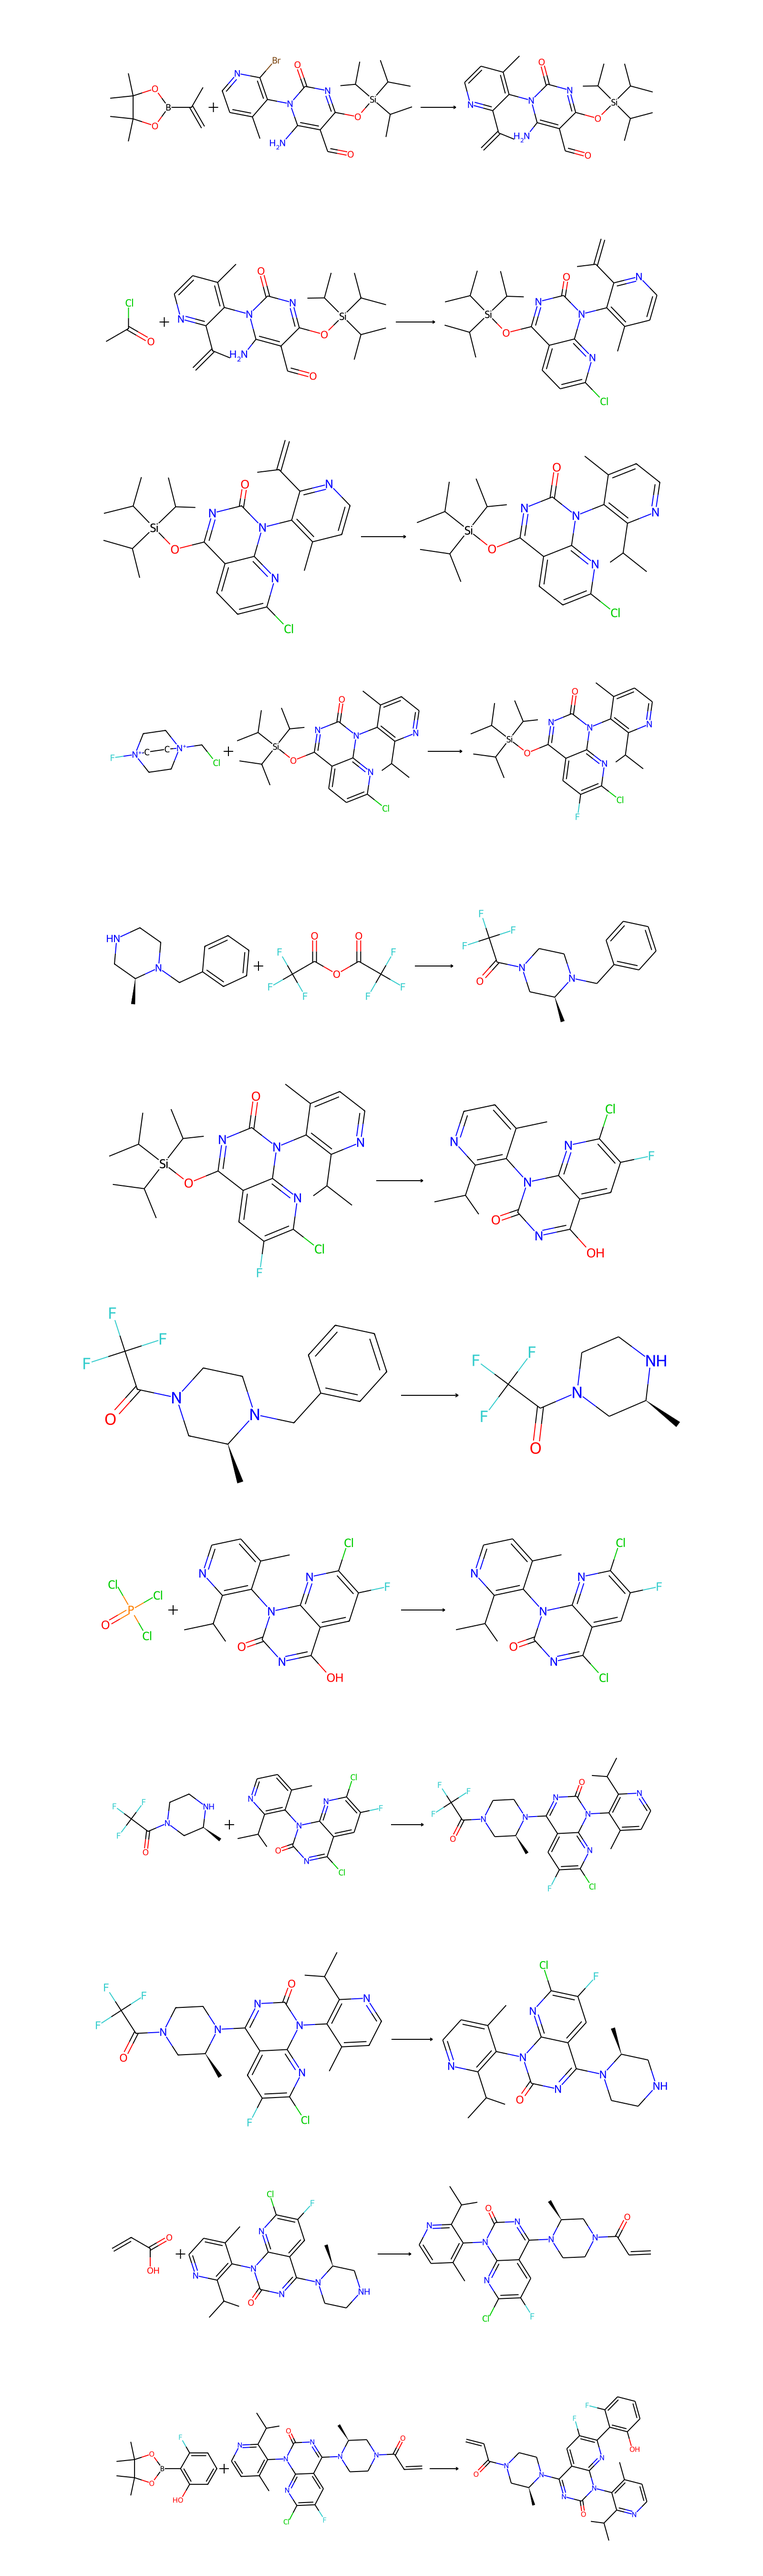
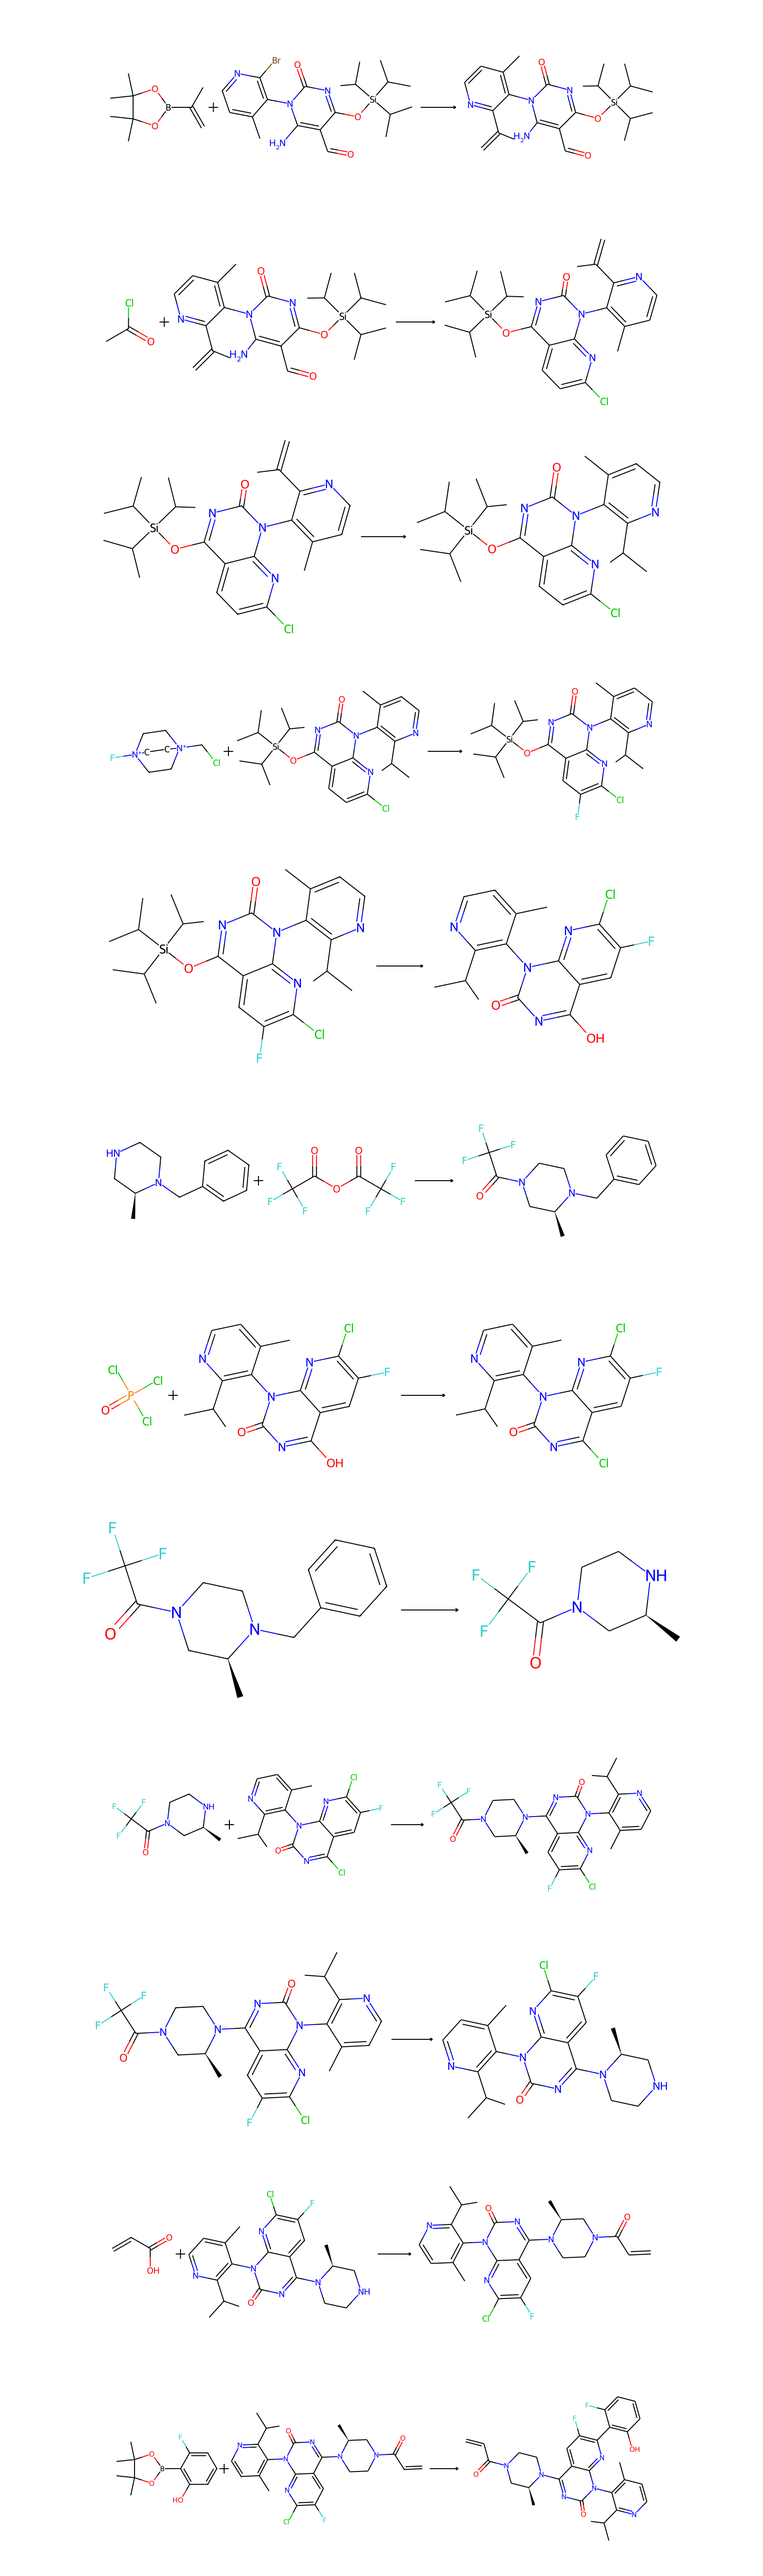
번호 규칙 변경, 한계점 1 수정
변경 1 — 단계 번호 규칙
extract_steps.py의 정렬 키에 타이브레이크를 추가했다. 깊이 내림차순은 그대로 두고,
같은 깊이의 독립 가지는 서브트리가 깊은 쪽(주 사슬)을 먼저 쓴다.
route 1이 주 사슬 1–7(포밀화 ~ POCl₃) · 분기 8(아크릴로일 클로라이드 + 메틸피페라진,
p=0.975) · 결합 9–10(SNAr, Suzuki)이 되어 주 사슬이 끊기지 않는다.
이전에는 분기가 7이어서 주 사슬이 1–6과 8로 갈라졌다.

route 6은 피페라진 분기가 2단계(6 TFA 보호, 8 탈벤질)라 주 사슬과 같은 깊이에 걸친다.
깊이 내림차순을 지키는 한 분기가 주 사슬 사이에 끼는 것을 피할 수 없다
(주 사슬 1–5, 7 / 분기 6, 8 / 결합 9–12). results/README.md에 적어 두었다.

route 1·6의 json·md와 영향받는 이미지(route_1 step_07·08, route_6 step_05~08,
양쪽 route_overview)를 다시 생성했다.

변경 2 — 한계점 1 수정 (HANDOFF.md 6장·7장)
"염소의 출처를 설명하지 못함"은 틀린 서술이었다. route 1의 3단계는 물 2분자가 빠지는
이중 축합으로 원자 수지가 맞고(C·Cl·N·Si 일치, H −4, O −2), 염소의 출처는
아세틸 클로라이드다.
진짜 오류는 아실 클로라이드의 염소가 이탈기라는 점이다. 이 템플릿은 C–Cl 결합을 유지한 채
염소를 새 방향족 고리의 치환기로 남기고 아세틸의 메틸 탄소를 고리 탄소로 바꾼다.
실제로 일어나지 않는 변환이고, 문헌 공정에서는 그 염소가 출발물질
(2,6-다이클로로-5-플루오로니코틴산)에 처음부터 달려 있다.

일반화 논점을 한계점 1 아래에 넣었다 — 템플릿 기반 역합성은 원자 수지가 맞는 단계를
만들어내지만 메커니즘적 타당성을 보장하지 않는다. 164단계 분류가 전부
0.0 Unrecognized인 것과 같은 뿌리다. 한계점 6(점수가 화학적 타당성을 재지 않는다)과
짝을 이룬다.

SKILL.md 7.1절에 검증 규칙 추가
이탈기가 생성물에 치환기로 남아 있는 단계는 틀린 단계로 본다. 다음 분자에도 적용된다.

HANDOFF.md 12장
완료된 "첫 작업 3개"를 산출물 표로 바꾸고, 2주차 시작점(Parrot, 입력은
results/steps/route_*.json)과 비교 기준이 되는 실제 공정 조건을 적었다.

diff --git a/scripts/extract_steps.py b/scripts/extract_steps.py
@@ -17,6 +17,11 @@
 단계 번호
     역합성 트리에서 깊은 reaction 노드가 먼저 일어나는 반응이다.
     깊이 내림차순으로 정렬하면 정반응 순서가 된다 (위상 정렬).
+
+    같은 깊이에 여러 반응이 있으면 (= 서로 독립인 가지) 서브트리가 깊은 쪽을 먼저 쓴다.
+    긴 쪽이 주 사슬이고 짧은 쪽이 분기이므로, 주 사슬이 연속 번호로 이어지고
+    분기가 그 뒤에 와서 보고서에서 읽기 좋다. 독립인 가지의 순서는 어느 쪽이든
+    위상 정렬상 유효하고 화학적으로도 같다.
 """
 
 import argparse
@@ -33,16 +38,27 @@ for _stream in (sys.stdout, sys.stderr):
 
 
 def collect_reactions(route):
-    """경로 트리에서 (깊이, 생성물 SMILES, reaction 노드)를 DFS 순서로 모은다."""
+    """경로 트리에서 reaction 노드를 DFS 순서로 모은다.
+
+    각 항목: [깊이, 그 반응 아래 서브트리의 최대 깊이, DFS 순번, 생성물 SMILES, reaction 노드]
+    서브트리 최대 깊이는 같은 깊이의 가지 중 어느 쪽이 주 사슬인지 가리는 데 쓴다.
+    """
     found = []
 
     def walk(mol_node, depth):
+        """이 mol 노드 아래에 있는 반응 중 가장 깊은 것의 깊이를 돌려준다."""
+        deepest = depth - 1  # 잎이면 (반응이 없으면) 자기보다 얕은 값
         for rxn in mol_node.get("children") or []:
             if rxn.get("type") != "reaction":
                 continue
-            found.append((depth, mol_node["smiles"], rxn))
+            idx = len(found)
+            found.append([depth, depth, idx, mol_node["smiles"], rxn])
+            subtree_deepest = depth
             for child_mol in rxn.get("children") or []:
-                walk(child_mol, depth + 1)
+                subtree_deepest = max(subtree_deepest, walk(child_mol, depth + 1))
+            found[idx][1] = subtree_deepest
+            deepest = max(deepest, subtree_deepest)
+        return deepest
 
     walk(route, 0)
     return found
@@ -51,11 +67,12 @@ def collect_reactions(route):
 def build_steps(route):
     """정반응 순서의 단계 리스트를 만든다."""
     found = collect_reactions(route)
-    # 깊이 내림차순 (깊은 반응이 먼저). 같은 깊이는 DFS 순서 유지 (stable sort).
-    found.sort(key=lambda t: -t[0])
+    # 깊이 내림차순 (깊은 반응이 먼저) → 같은 깊이면 서브트리가 깊은 쪽(주 사슬) 먼저
+    # → 그래도 같으면 DFS 순서.
+    found.sort(key=lambda t: (-t[0], -t[1], t[2]))
 
     steps = []
-    for i, (depth, product, rxn) in enumerate(found, start=1):
+    for i, (depth, _subtree_deepest, _idx, product, rxn) in enumerate(found, start=1):
         reactants = [c["smiles"] for c in (rxn.get("children") or [])]
         meta = rxn.get("metadata") or {}
         steps.append(

diff --git a/HANDOFF.md b/HANDOFF.md
@@ -429,7 +429,16 @@ Cc1ccnc(Br)c1-n1c(N)cc(O[Si](C(C)C)(C(C)C)C(C)C)nc1=O
 | 결합 방식 | 아미노·알데하이드에서 고리화 | 우레아 형성 후 염기 매개 고리화 |
 | 확률 | p=0.036 (낮음) | — |
 
-"생성물 고리의 Cl이 어디서 왔는지 설명되지 않는다"고 지적했던 부분의 답이 나왔다. **실제로는 그 Cl이 출발물질(2,6-다이클로로-5-플루오로니코틴산)에 처음부터 달려 있다.** 모델은 그 사실을 모르고 아세틸 클로라이드에서 Cl이 오는 것처럼 템플릿을 적용했다.
+전에 "생성물 고리의 Cl이 어디서 왔는지 설명되지 않는다"고 적었는데, **이 서술은 틀렸다.** route 1의 3단계 원자 수지를 계산해 보면 이렇다.
+
+```
+CC(=O)Cl + C23H34N4O3Si  →  C25H33ClN4O2Si + 2 H2O
+C25H37ClN4O4Si           →  C25H33ClN4O2Si + 2 H2O
+```
+
+C·Cl·N·Si가 모두 맞고 H −4, O −2다. 물 2분자가 빠지는 이중 축합으로 **형식상 균형이 잡혀 있다.** 아세틸 클로라이드의 탄소 2개와 염소가 전부 생성물에 들어간다. 염소의 출처는 아세틸 클로라이드이고, 설명되지 않는 것이 아니다.
+
+진짜 오류는 다른 데 있다. **아실 클로라이드 화학에서 염소는 이탈기다.** 이 템플릿은 C–Cl 결합을 유지한 채 염소를 새로 만든 방향족 고리의 치환기로 남기고, 아세틸의 메틸 탄소를 고리 탄소로 바꾼다. 실제로 일어나지 않는 변환이다. 문헌 공정에서는 그 염소가 출발물질(2,6-다이클로로-5-플루오로니코틴산)에 처음부터 달려 있다.
 
 **2. 플루오린 도입 방식**: AI는 Selectfluor로 후반에 친전자성 불소화. 실제는 출발물질에 이미 F가 있다. **불소화된 빌딩블록을 사는 것이 정답이었다.**
 
@@ -478,7 +487,12 @@ OCc1ccccc1 + [카바모일 클로라이드 중간체] → Cbz 보호체       (p
 
 ## 7. 보고서 '한계점' 절에 넣을 항목 (최종 정리)
 
-1. 고리 형성 단계에서 염소의 출처를 설명하지 못함. 상업용 빌딩블록에 이미 있는 치환기를 반응으로 만들려 함 (v4 15개 경로 공통)
+1. 아실 클로라이드 화학에서 염소는 이탈기다. 이 템플릿은 C–Cl 결합을 유지한 채 염소를 새로 만든 방향족 고리의 치환기로 남기고, 아세틸의 메틸 탄소를 고리 탄소로 바꾼다. 실제로 일어나지 않는 변환이다. 문헌 공정에서는 그 염소가 출발물질(2,6-다이클로로-5-플루오로니코틴산)에 처음부터 달려 있다. (v4 15개 경로 공통)
+
+   > **일반화 — 한계점 절의 핵심 논점.** 템플릿 기반 역합성은 원자 수지가 맞는 단계를 만들어내지만, 그것이 메커니즘적 타당성을 보장하지 않는다. 이 단계도 물 2분자가 빠지는 이중 축합으로 형식상 균형은 잡혀 있다. 164개 단계의 반응 분류가 전부 `0.0 Unrecognized`로 나온 것과 같은 뿌리다 — 모델은 원자를 맞추고 있고 메커니즘을 보고 있지 않다.
+   >
+   > 이 논점은 아래 6번("점수가 화학적 타당성을 재지 않는다")과 짝을 이룬다. 둘을 나란히 쓰면 보고서 한계점 절의 골격이 된다.
+
 2. 전자 부족 방향족 고리에 친전자성 불소화를 제안 (실제로는 불필요한 반응)
 3. 축 비대칭(atropisomerism)을 인식하지 못해 분할 단계가 없음 — 실제 공정의 최저 수율 단계(37%)
 4. 보호기 제거와 아실화를 한 단계로 합침 (v4 route 9, 15). 같은 변환을 route 5·6·7·12·13에서는 올바르게 두 단계로 제시 — **일관성 없음**
@@ -608,33 +622,38 @@ OCc1ccccc1 + [카바모일 클로라이드 중간체] → Cbz 보호체       (p
 
 **이 파일은 repo 루트에 둔다.** CLI 세션 시작할 때 읽히면 지금까지의 맥락이 전부 전달된다. 특히 중요한 것은 8장(보고서 금지·주의 사항)과 7장(한계점 목록)이다. 이 둘이 보고서 품질을 좌우한다.
 
-### 첫 작업 3개 (순서대로)
+### 첫 작업 3개 — 완료 (commit c06e8d2, 번호 규칙·한계점 수정은 후속 커밋)
 
-**(1) 결과 json을 repo에 올린다 — 재현성 20점 항목**
+결과 json 4개 repo 업로드, route 1·6 단계 추출, RDKit 이미지 생성이 모두 끝났다. 산출물은 아래와 같다.
 
-repo에 현재 `README.md`, `SKILL.md`, `.gitignore`밖에 없다. 교수님이 repo만 보고 실행을 재현해야 하므로 결과물이 있어야 한다.
+| 산출물 | 위치 |
+| --- | --- |
+| 결과 json 4개 | `results/sotorasib_trees*.json` |
+| 재현 문서 (환경·명령어·4회 비교) | `results/README.md` |
+| 단계별 반응 SMILES | `results/steps/route_1.json`, `route_6.json` (+ `.md` 표) |
+| 반응식·구조식 이미지 | `results/images/route_<n>/` |
+| 추출 스크립트 | `scripts/extract_steps.py` |
+| 작도 스크립트 | `scripts/draw_route.py` |
 
-```
-cd C:\Users\happi\github\2026_organic-synthesis
-mkdir results
-copy C:\Users\happi\github\aizynth-sotorasib\sotorasib_trees*.json results\
-```
-`.gitignore`가 `*.json`을 막고 있지 않은지 먼저 확인할 것. 막고 있으면 `!results/*.json` 예외를 추가한다.
-커밋 메시지에 4회 실행의 설정 차이(4장 표)를 요약해 넣으면 재현성 설명이 된다.
+### 다음 작업 — 2주차 (11/8 일정), Parrot부터
 
-**(2) route 1·6의 단계별 반응 SMILES 추출**
+**입력은 `results/steps/route_1.json`과 `results/steps/route_6.json`의 `reaction_smiles` 필드다.**
+route 1은 10단계(점수 최고 0.8448), route 6은 12단계(Bn + TFA 보호기를 모두 명시한 화학적으로 가장 정합적인 경로).
 
-`sotorasib_trees_v4.json`에서 뽑는다. 이것이 11/9 이후 조건·수율 모델의 입력이다.
-- route 1 = 점수 최고 (0.8448, 10단계)
-- route 6 = 화학적으로 가장 정합적 (Bn + TFA 보호, 12단계)
+1. **Parrot 설치 → 단계별 반응 조건(용매·시약·촉매·온도) 예측.** 명령어와 출력 형식을 SKILL.md에 기록
+2. **ASKCOS context recommender 시도** — 하루 안에 안 되면 실패 원인만 기록하고 넘어간다. 실패 사례도 '한계점' 재료다
+3. **rxn_yields 설치 → 단계별 수율 예측**
+4. **DRFP 기반 수율 예측** (rxn_yields와 비교용)
+5. **전체를 `run_pipeline.py` 하나로 연결**하고 결과를 json 하나로 모으기
 
-json 구조: 중첩된 `children` 트리. 각 reaction 노드에 `metadata.policy_name`, `metadata.policy_probability`, `metadata.classification`이 있다. mol 노드와 reaction 노드가 번갈아 나온다. 반응 SMILES는 `반응물1.반응물2>>생성물` 형식으로 조립한다.
+**조건 예측 결과를 검토할 때 SKILL.md 7절을 반드시 적용한다.** 특히 예측 온도가 용매 끓는점보다 높으면 그 조건은 쓸 수 없다 — 열린 플라스크는 용매 끓는점보다 뜨거워지지 않는다.
 
-**(3) RDKit으로 경로 구조 이미지 생성 — 가독성 30점**
+**ground truth는 6장의 실제 공정 조건 표다.** 예측값을 이 숫자와 비교하면 된다.
 
-route 1과 route 6의 단계별 구조식. 원래 11/15 일정이었다.
-
-그다음부터는 2주차(11/8~) 항목, 10장 참조.
+| 단계 | 실제 조건 | 실제 수율 |
+| --- | --- | --- |
+| Suzuki 커플링 | Pd(dpe)PhosCl₂ 0.3 mol%, KOAc 2.0 equiv, 2-MeTHF–H₂O 9:1, 78 °C, 4 h | 80% |
+| 염소화 + 피페라진 SNAr (원포트) | POCl₃ + DIPEA 톨루엔, 이어 i-PrOAc–DCM 20 °C | 66% |
 
 ### 환경 재현 명령
 ```

diff --git a/results/steps/route_6.md b/results/steps/route_6.md
@@ -16,10 +16,10 @@
 | 2 | ringbreaker | 0.036 | 0.0 Unrecognized | `CC(=O)Cl.C=C(C)c1nccc(C)c1-n1c(N)c(C=O)c(O[Si](C(C)C)(C(C)C)C(C)C)nc1=O>>C=C(C)c1nccc(C)c1-n1c(=O)nc(O[Si](C(C)C)(C(C)C)C(C)C)c2ccc(Cl)nc21` |
 | 3 | uspto | 0.008 | 0.0 Unrecognized | `C=C(C)c1nccc(C)c1-n1c(=O)nc(O[Si](C(C)C)(C(C)C)C(C)C)c2ccc(Cl)nc21>>Cc1ccnc(C(C)C)c1-n1c(=O)nc(O[Si](C(C)C)(C(C)C)C(C)C)c2ccc(Cl)nc21` |
 | 4 | uspto | 0.012 | 0.0 Unrecognized | `F[N+]12CC[N+](CCl)(CC1)CC2.Cc1ccnc(C(C)C)c1-n1c(=O)nc(O[Si](C(C)C)(C(C)C)C(C)C)c2ccc(Cl)nc21>>Cc1ccnc(C(C)C)c1-n1c(=O)nc(O[Si](C(C)C)(C(C)C)C(C)C)c2cc(F)c(Cl)nc21` |
-| 5 | uspto | 0.669 | 0.0 Unrecognized | `C[C@H]1CNCCN1Cc1ccccc1.O=C(OC(=O)C(F)(F)F)C(F)(F)F>>C[C@H]1CN(C(=O)C(F)(F)F)CCN1Cc1ccccc1` |
-| 6 | uspto | 0.010 | 0.0 Unrecognized | `Cc1ccnc(C(C)C)c1-n1c(=O)nc(O[Si](C(C)C)(C(C)C)C(C)C)c2cc(F)c(Cl)nc21>>Cc1ccnc(C(C)C)c1-n1c(=O)nc(O)c2cc(F)c(Cl)nc21` |
-| 7 | uspto | 0.175 | 0.0 Unrecognized | `C[C@H]1CN(C(=O)C(F)(F)F)CCN1Cc1ccccc1>>C[C@H]1CN(C(=O)C(F)(F)F)CCN1` |
-| 8 | uspto | 0.132 | 0.0 Unrecognized | `O=P(Cl)(Cl)Cl.Cc1ccnc(C(C)C)c1-n1c(=O)nc(O)c2cc(F)c(Cl)nc21>>Cc1ccnc(C(C)C)c1-n1c(=O)nc(Cl)c2cc(F)c(Cl)nc21` |
+| 5 | uspto | 0.010 | 0.0 Unrecognized | `Cc1ccnc(C(C)C)c1-n1c(=O)nc(O[Si](C(C)C)(C(C)C)C(C)C)c2cc(F)c(Cl)nc21>>Cc1ccnc(C(C)C)c1-n1c(=O)nc(O)c2cc(F)c(Cl)nc21` |
+| 6 | uspto | 0.669 | 0.0 Unrecognized | `C[C@H]1CNCCN1Cc1ccccc1.O=C(OC(=O)C(F)(F)F)C(F)(F)F>>C[C@H]1CN(C(=O)C(F)(F)F)CCN1Cc1ccccc1` |
+| 7 | uspto | 0.132 | 0.0 Unrecognized | `O=P(Cl)(Cl)Cl.Cc1ccnc(C(C)C)c1-n1c(=O)nc(O)c2cc(F)c(Cl)nc21>>Cc1ccnc(C(C)C)c1-n1c(=O)nc(Cl)c2cc(F)c(Cl)nc21` |
+| 8 | uspto | 0.175 | 0.0 Unrecognized | `C[C@H]1CN(C(=O)C(F)(F)F)CCN1Cc1ccccc1>>C[C@H]1CN(C(=O)C(F)(F)F)CCN1` |
 | 9 | uspto | 0.067 | 0.0 Unrecognized | `C[C@H]1CN(C(=O)C(F)(F)F)CCN1.Cc1ccnc(C(C)C)c1-n1c(=O)nc(Cl)c2cc(F)c(Cl)nc21>>Cc1ccnc(C(C)C)c1-n1c(=O)nc(N2CCN(C(=O)C(F)(F)F)C[C@@H]2C)c2cc(F)c(Cl)nc21` |
 | 10 | uspto | 0.042 | 0.0 Unrecognized | `Cc1ccnc(C(C)C)c1-n1c(=O)nc(N2CCN(C(=O)C(F)(F)F)C[C@@H]2C)c2cc(F)c(Cl)nc21>>Cc1ccnc(C(C)C)c1-n1c(=O)nc(N2CCNC[C@@H]2C)c2cc(F)c(Cl)nc21` |
 | 11 | uspto | 0.255 | 0.0 Unrecognized | `C=CC(=O)O.Cc1ccnc(C(C)C)c1-n1c(=O)nc(N2CCNC[C@@H]2C)c2cc(F)c(Cl)nc21>>C=CC(=O)N1CCN(c2nc(=O)n(-c3c(C)ccnc3C(C)C)c3nc(Cl)c(F)cc23)[C@@H](C)C1` |

diff --git a/results/steps/route_1.md b/results/steps/route_1.md
@@ -18,8 +18,8 @@
 | 4 | uspto | 0.008 | 0.0 Unrecognized | `C=C(C)c1nccc(C)c1-n1c(=O)nc(O[Si](C(C)C)(C(C)C)C(C)C)c2ccc(Cl)nc21>>Cc1ccnc(C(C)C)c1-n1c(=O)nc(O[Si](C(C)C)(C(C)C)C(C)C)c2ccc(Cl)nc21` |
 | 5 | uspto | 0.012 | 0.0 Unrecognized | `F[N+]12CC[N+](CCl)(CC1)CC2.Cc1ccnc(C(C)C)c1-n1c(=O)nc(O[Si](C(C)C)(C(C)C)C(C)C)c2ccc(Cl)nc21>>Cc1ccnc(C(C)C)c1-n1c(=O)nc(O[Si](C(C)C)(C(C)C)C(C)C)c2cc(F)c(Cl)nc21` |
 | 6 | uspto | 0.010 | 0.0 Unrecognized | `Cc1ccnc(C(C)C)c1-n1c(=O)nc(O[Si](C(C)C)(C(C)C)C(C)C)c2cc(F)c(Cl)nc21>>Cc1ccnc(C(C)C)c1-n1c(=O)nc(O)c2cc(F)c(Cl)nc21` |
-| 7 | uspto | 0.975 | 0.0 Unrecognized | `C=CC(=O)Cl.C[C@H]1CNCCN1>>C=CC(=O)N1CCN[C@@H](C)C1` |
-| 8 | uspto | 0.132 | 0.0 Unrecognized | `O=P(Cl)(Cl)Cl.Cc1ccnc(C(C)C)c1-n1c(=O)nc(O)c2cc(F)c(Cl)nc21>>Cc1ccnc(C(C)C)c1-n1c(=O)nc(Cl)c2cc(F)c(Cl)nc21` |
+| 7 | uspto | 0.132 | 0.0 Unrecognized | `O=P(Cl)(Cl)Cl.Cc1ccnc(C(C)C)c1-n1c(=O)nc(O)c2cc(F)c(Cl)nc21>>Cc1ccnc(C(C)C)c1-n1c(=O)nc(Cl)c2cc(F)c(Cl)nc21` |
+| 8 | uspto | 0.975 | 0.0 Unrecognized | `C=CC(=O)Cl.C[C@H]1CNCCN1>>C=CC(=O)N1CCN[C@@H](C)C1` |
 | 9 | uspto | 0.016 | 0.0 Unrecognized | `C=CC(=O)N1CCN[C@@H](C)C1.Cc1ccnc(C(C)C)c1-n1c(=O)nc(Cl)c2cc(F)c(Cl)nc21>>C=CC(=O)N1CCN(c2nc(=O)n(-c3c(C)ccnc3C(C)C)c3nc(Cl)c(F)cc23)[C@@H](C)C1` |
 | 10 | uspto | 0.002 | 0.0 Unrecognized | `CC1(C)OB(c2c(O)cccc2F)OC1(C)C.C=CC(=O)N1CCN(c2nc(=O)n(-c3c(C)ccnc3C(C)C)c3nc(Cl)c(F)cc23)[C@@H](C)C1>>C=CC(=O)N1CCN(c2nc(=O)n(-c3c(C)ccnc3C(C)C)c3nc(-c4c(O)cccc4F)c(F)cc23)[C@@H](C)C1` |
 

diff --git a/results/README.md b/results/README.md
@@ -112,5 +112,14 @@ python scripts/draw_route.py results/steps/route_6.json
 | 전구체 모음 | `results/images/route_<n>/precursors.png` |
 
 `extract_steps.py`의 단계 번호는 정반응 순서다. 역합성 트리에서 깊은 reaction 노드가
-먼저 일어나는 반응이므로 깊이 내림차순으로 정렬했다. 가지(branch)가 있는 경로에서는
-독립적인 가지들 사이의 순서가 여러 가지일 수 있고, 어느 쪽이든 화학적으로 같다.
+먼저 일어나는 반응이므로 깊이 내림차순으로 정렬했다.
+
+같은 깊이에 여러 반응이 있으면 (= 서로 독립인 가지) 서브트리가 깊은 쪽을 먼저 쓴다.
+긴 쪽이 주 사슬, 짧은 쪽이 분기이므로 주 사슬이 연속 번호로 이어져 읽기 좋다.
+route 1은 이 규칙으로 **주 사슬 1–7(포밀화 ~ POCl₃), 분기 8(아크릴로일 클로라이드 +
+메틸피페라진), 결합 9–10(SNAr, Suzuki)** 이 된다.
+
+route 6은 피페라진 분기가 2단계(6 TFA 보호, 8 탈벤질)여서 주 사슬과 같은 깊이에 걸친다.
+깊이 내림차순을 지키는 한 분기가 주 사슬 사이에 끼는 것을 피할 수 없다
+(주 사슬 1–5, 7 / 분기 6, 8 / 결합 9–12). 독립인 가지의 순서는 어느 쪽이든
+위상 정렬상 유효하고 화학적으로도 같다.

diff --git a/SKILL.md b/SKILL.md
@@ -119,6 +119,7 @@ download_public_data "$env:USERPROFILE\github\aizynth-data"
 
 | 검증 항목 | 쓰면 안 되는 주장 | 확인 방법 |
 |---|---|---|
+| 이탈기의 행방 | 원자 수지(atom balance)가 맞으니 그 단계는 성립한다 | 원자 수지가 맞는다고 메커니즘이 성립하는 것은 아니다. 이탈기(아실 클로라이드의 Cl 등)가 생성물에 치환기로 남아 있는 단계는 틀린 단계로 본다 |
 | SN2 가능 여부 | sp² 탄소(방향족 고리, 비닐)나 고리 탄소에 SN2(뒤쪽 공격)가 일어난다 | 공격받는 탄소가 sp³인지 확인한다. LUMO 에너지가 낮아도 sp²면 SN2는 불가능하다. 방향족 C–N 결합은 Pd 촉매(Buchwald–Hartwig)로 만든다 |
 | SN1 가능 여부 | 1차(1°) 탄소나 메틸 탄소에서 SN1이 일어난다 | 카보양이온 안정성은 3° > 2° > 1° > 메틸이다. 1°에서는 양이온이 불안정해 SN1이 일어나지 않는다 |
 | 카복실산 유도체 변환 | 아마이드에서 acid chloride를, 또는 반응성이 낮은 유도체에서 높은 유도체를 직접 만든다 | 반응성 높음 → 낮음 방향으로만 변환된다. acid chloride → 아마이드는 가능하지만 역방향은 불가능하다 |
